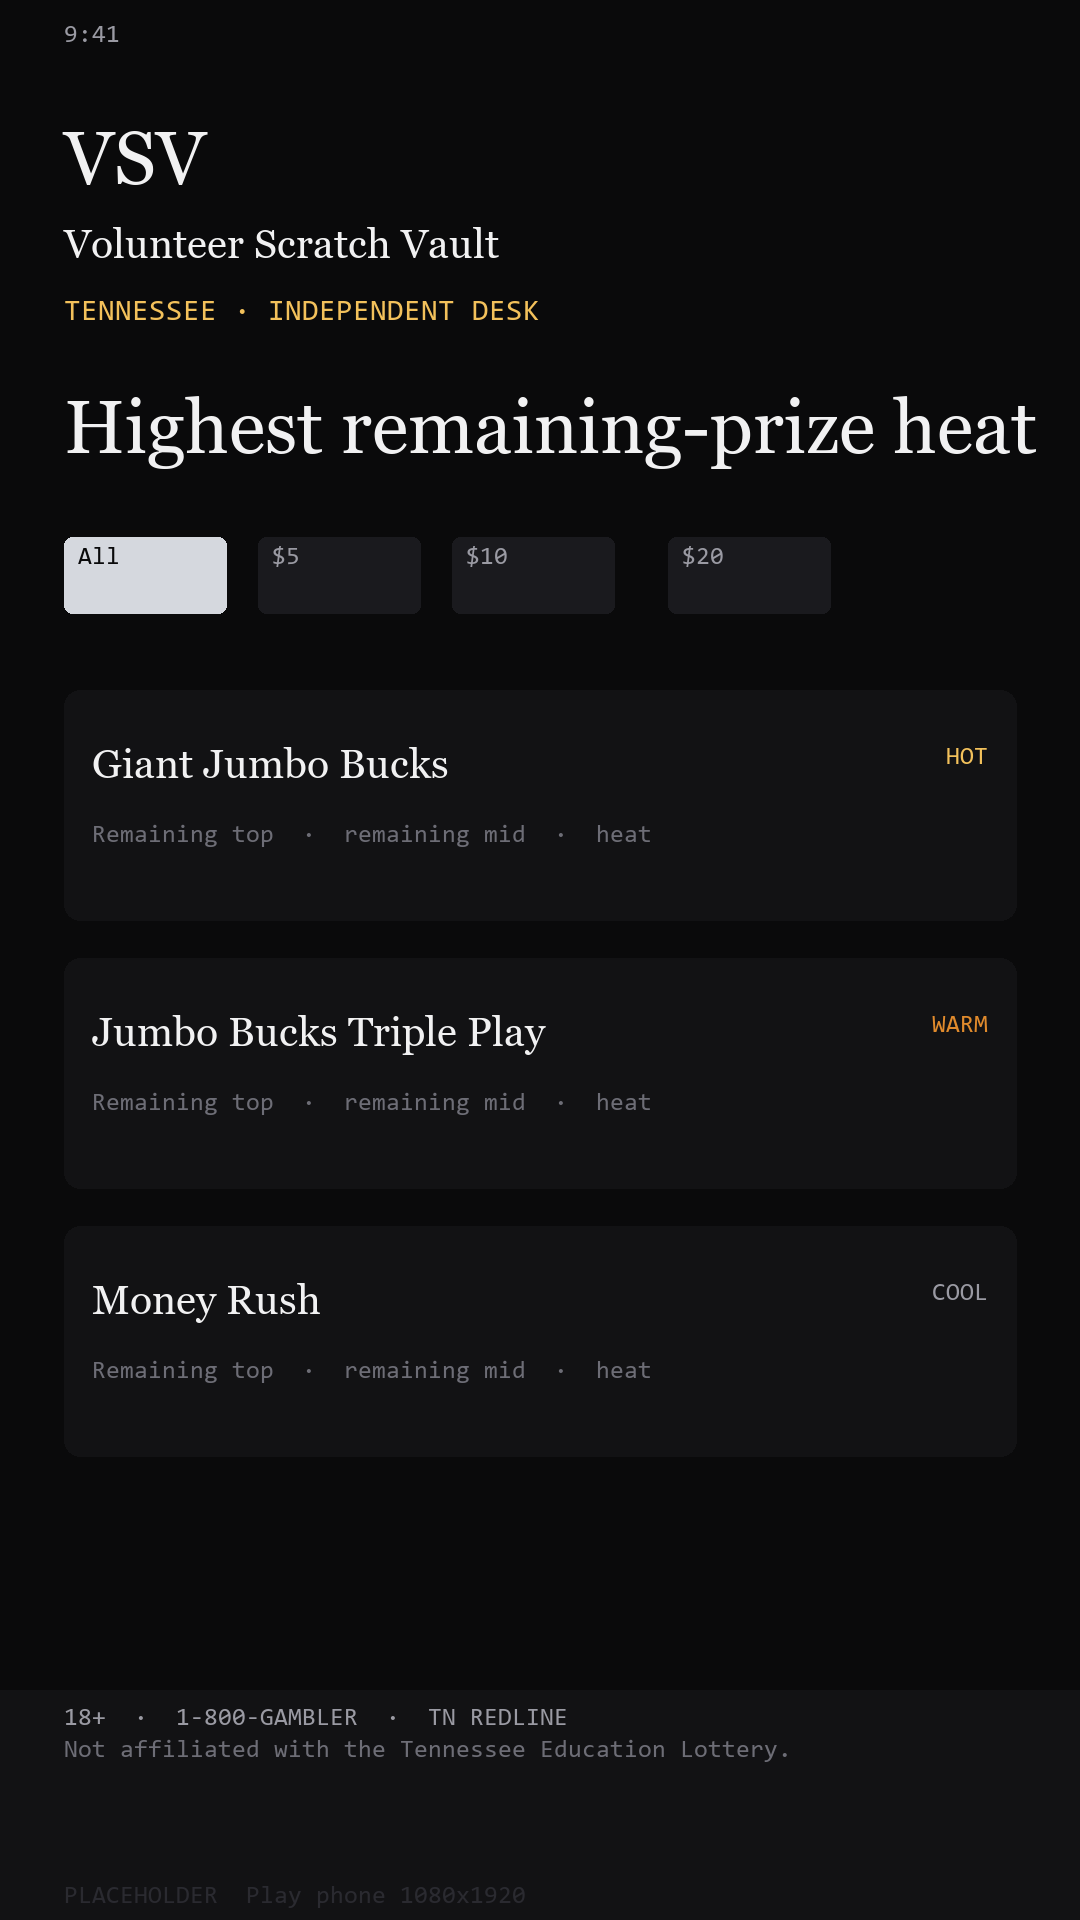
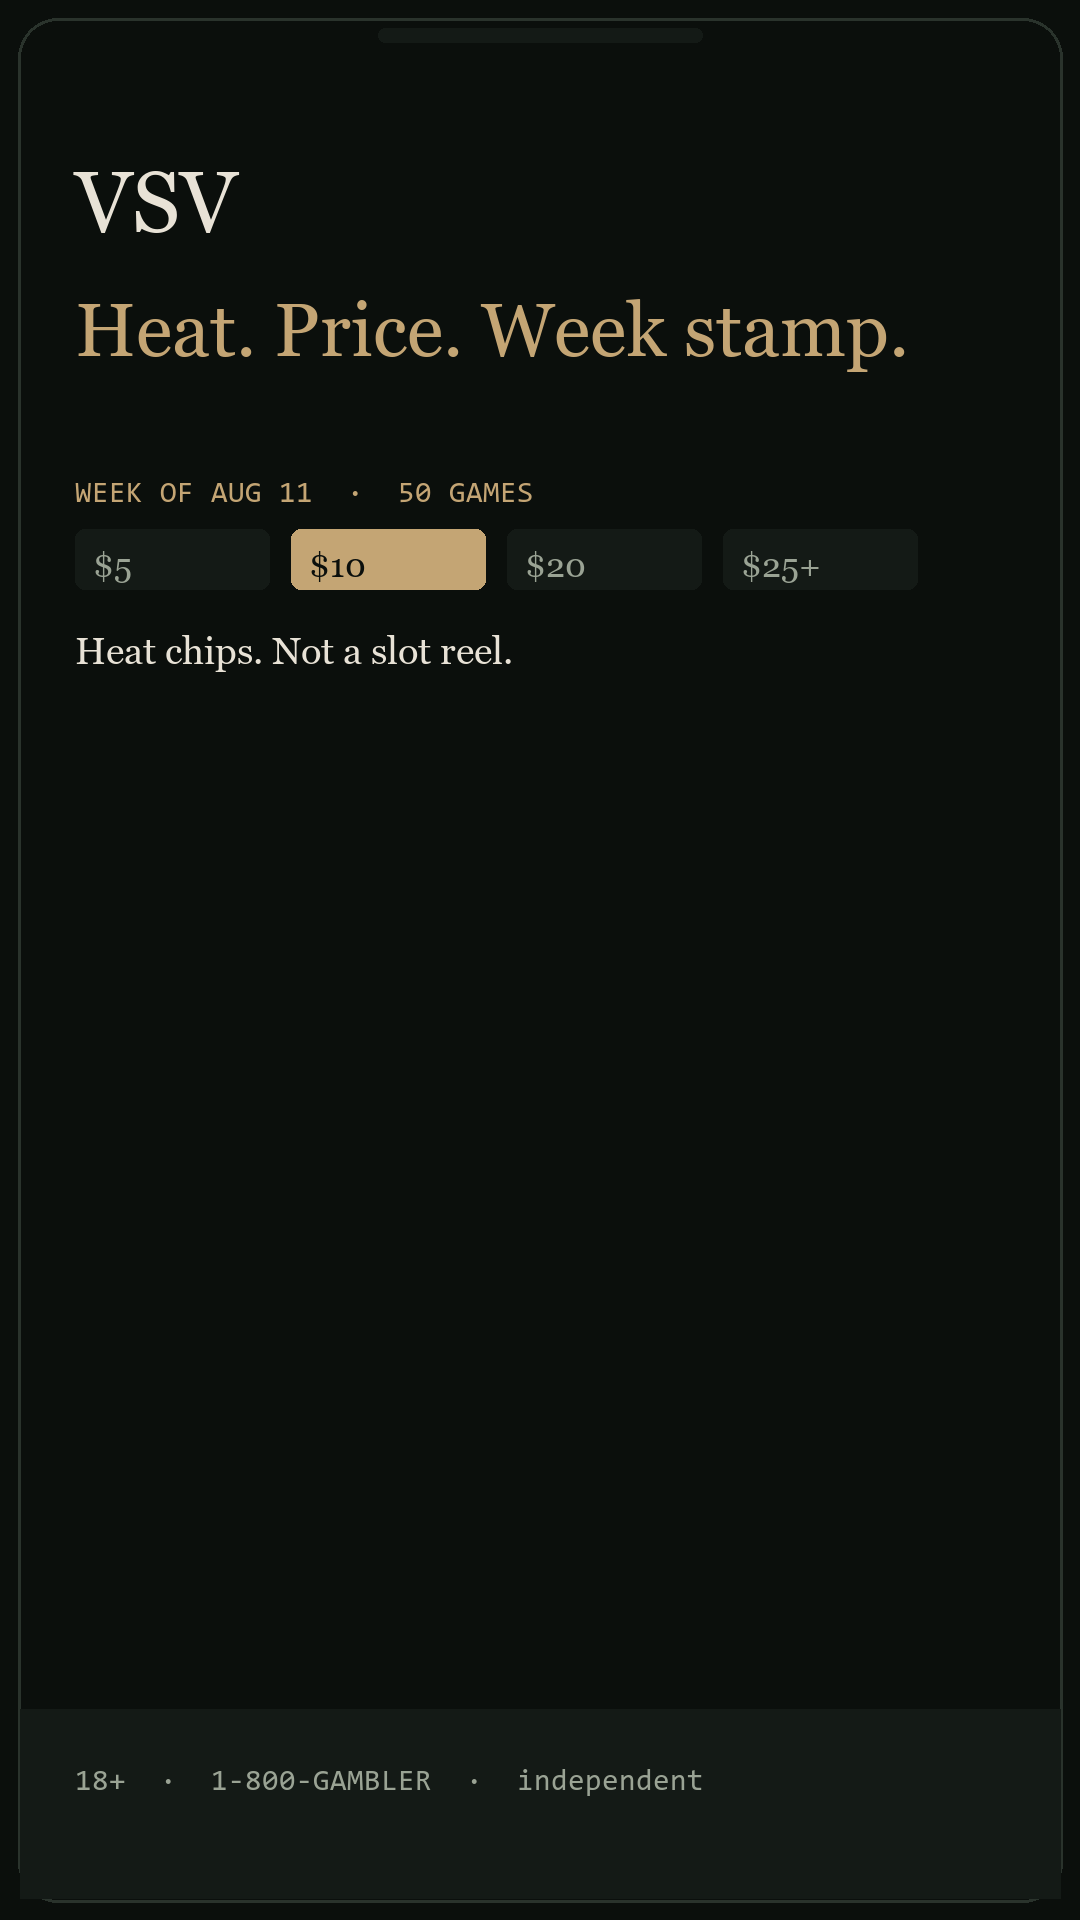
docs: store listing, screenshot frames, and app review notes

diff --git a/scripts/generate-listing-shots.py b/scripts/generate-listing-shots.py
@@ -1,0 +1,126 @@
+#!/usr/bin/env python3
+"""Store screenshot frames: hook, skip, desk, trip, alert, trust."""
+
+from pathlib import Path
+
+from PIL import Image, ImageDraw, ImageFont
+
+ROOT = Path(__file__).resolve().parents[1]
+BG = (11, 15, 12)
+RAISED = (20, 26, 22)
+LINE = (42, 51, 44)
+GOLD = (196, 165, 116)
+SAGE = (124, 154, 114)
+DANGER = (196, 92, 74)
+PAPER = (232, 226, 214)
+MUTED = (154, 163, 148)
+
+
+def font(size: int, mono: bool = False):
+    paths = (
+        [r"C:\Windows\Fonts\consola.ttf"]
+        if mono
+        else [r"C:\Windows\Fonts\georgia.ttf", r"C:\Windows\Fonts\times.ttf"]
+    )
+    for p in paths:
+        if Path(p).exists():
+            return ImageFont.truetype(p, size)
+    return ImageFont.load_default()
+
+
+def frame(size, caption, body_fn):
+    w, h = size
+    img = Image.new("RGB", size, BG)
+    draw = ImageDraw.Draw(img)
+    pad = int(w * 0.07)
+    # device chrome
+    draw.rounded_rectangle((18, 18, w - 18, h - 18), radius=40, outline=LINE, width=3)
+    draw.rounded_rectangle((int(w * 0.35), 28, int(w * 0.65), 42), radius=8, fill=RAISED)
+    y = int(h * 0.08)
+    draw.text((pad, y), "VSV", font=font(int(w * 0.08)), fill=PAPER)
+    y += int(h * 0.07)
+    draw.text((pad, y), caption, font=font(int(w * 0.07)), fill=GOLD)
+    y += int(h * 0.10)
+    body_fn(draw, pad, y, w, h)
+    draw.rectangle((20, h - int(h * 0.11), w - 20, h - 22), fill=RAISED)
+    draw.text(
+        (pad, h - int(h * 0.08)),
+        "18+  ·  1-800-GAMBLER  ·  independent",
+        font=font(int(w * 0.028), mono=True),
+        fill=MUTED,
+    )
+    return img
+
+
+def hook(draw, pad, y, w, h):
+    draw.ellipse((pad, y, pad + int(w * 0.38), y + int(w * 0.38)), outline=GOLD, width=3)
+    draw.text((pad + int(w * 0.44), y + 20), "$10 still posted", font=font(int(w * 0.045)), fill=PAPER)
+    draw.text((pad + int(w * 0.44), y + 80), "Giant Jumbo Bucks", font=font(int(w * 0.038)), fill=SAGE)
+    draw.text((pad + int(w * 0.44), y + 130), "613 mid-tier · heat 71", font=font(int(w * 0.03), True), fill=MUTED)
+
+
+def skip(draw, pad, y, w, h):
+    for i, name in enumerate(("Jumbo Bucks Triple Play", "Money Rush", "Cashword")):
+        top = y + i * int(h * 0.09)
+        draw.rounded_rectangle((pad, top, w - pad, top + int(h * 0.075)), radius=12, outline=LINE)
+        draw.text((pad + 20, top + 18), name, font=font(int(w * 0.036)), fill=PAPER)
+        draw.text((w - pad - 90, top + 22), "SKIP", font=font(int(w * 0.028), True), fill=DANGER)
+
+
+def desk(draw, pad, y, w, h):
+    draw.text((pad, y), "WEEK OF AUG 11  ·  50 GAMES", font=font(int(w * 0.028), True), fill=GOLD)
+    x = pad
+    for chip, on in (("$5", False), ("$10", True), ("$20", False), ("$25+", False)):
+        fill = GOLD if on else RAISED
+        ink = BG if on else MUTED
+        draw.rounded_rectangle((x, y + 50, x + int(w * 0.18), y + 110), radius=10, fill=fill)
+        draw.text((x + 18, y + 66), chip, font=font(int(w * 0.032)), fill=ink)
+        x += int(w * 0.2)
+    draw.text((pad, y + 150), "Heat chips. Not a slot reel.", font=font(int(w * 0.036)), fill=PAPER)
+
+
+def trip(draw, pad, y, w, h):
+    draw.text((pad, y), "If you’re buying $10s,", font=font(int(w * 0.04)), fill=PAPER)
+    draw.text((pad, y + 50), "review these 3. Then stop.", font=font(int(w * 0.04)), fill=PAPER)
+    for i, name in enumerate(("1  Giant Jumbo", "2  Crossword", "3  Multiplier")):
+        draw.text((pad, y + 130 + i * 48), name, font=font(int(w * 0.036)), fill=SAGE)
+
+
+def alert(draw, pad, y, w, h):
+    draw.ellipse((pad, y, pad + int(w * 0.36), y + int(w * 0.36)), outline=GOLD, width=4)
+    draw.text((pad + int(w * 0.08), y + int(w * 0.16)), "CONTACT", font=font(int(w * 0.03), True), fill=GOLD)
+    draw.text((pad + int(w * 0.42), y + 40), "New desk drop", font=font(int(w * 0.042)), fill=PAPER)
+    draw.text((pad + int(w * 0.42), y + 100), "Review rankings", font=font(int(w * 0.032)), fill=MUTED)
+
+
+def trust(draw, pad, y, w, h):
+    draw.text((pad, y), "Independent desk.", font=font(int(w * 0.045)), fill=PAPER)
+    draw.text((pad, y + 60), "Not the Lottery.", font=font(int(w * 0.045)), fill=PAPER)
+    draw.text((pad, y + 140), "1 month free, then $4.99/mo", font=font(int(w * 0.034)), fill=GOLD)
+    draw.text((pad, y + 200), "or $49.99/yr. Cancel anytime.", font=font(int(w * 0.034)), fill=GOLD)
+    draw.text((pad, y + 280), "Then put the phone away.", font=font(int(w * 0.04)), fill=SAGE)
+
+
+def save(img, path):
+    path.parent.mkdir(parents=True, exist_ok=True)
+    img.save(path, "PNG", optimize=True)
+    print("wrote", path.relative_to(ROOT))
+
+
+def main():
+    shots = [
+        ("hook", "See what’s still posted.", hook),
+        ("skip", "Skip the drained ones.", skip),
+        ("desk", "Heat. Price. Week stamp.", desk),
+        ("trip", "Review these 3. Then stop.", trip),
+        ("alert", "New counts on the desk.", alert),
+        ("trust", "Independent. 18+.", trust),
+    ]
+    for slug, cap, fn in shots:
+        save(frame((1290, 2796), cap, fn), ROOT / "store" / "ios" / "screenshots" / f"6.7-{slug}.png")
+        save(frame((1179, 2556), cap, fn), ROOT / "store" / "ios" / "screenshots" / f"6.1-{slug}.png")
+        save(frame((1080, 1920), cap, fn), ROOT / "store" / "android" / "screenshots" / f"phone-{slug}.png")
+
+
+if __name__ == "__main__":
+    main()

diff --git a/store/listing.md b/store/listing.md
@@ -1,118 +1,94 @@
 # Store listing copy — Volunteer Scratch Vault
 
-Paste-ready text for App Store Connect and Google Play. Calm desk voice.
-Never “beat the lottery,” never “best chance to win.”
+Paste-ready for App Store Connect and Google Play.
 
 | Field | Value |
 |---|---|
-| App name | Volunteer Scratch Vault |
-| Subtitle (requested) | TN scratch-off remaining prizes |
-| Apple subtitle (30-char max) | TN remaining-prize desk |
-| Primary category | **Reference** (preferred) or **Magazines & Newspapers** |
-| Do not use | Games, Casino, Lottery (as if we operate one) |
+| Category | **Reference** (or Magazines & Newspapers) |
+| Do not use | Games, Casino, Lottery operator |
 | Age | 18+ |
-| Privacy policy | https://volunteer-scratch-vault.vercel.app/privacy |
-
-The requested subtitle is 31 characters. Apple’s subtitle field allows 30.
-Use **TN remaining-prize desk** (23) on iOS. Google has no subtitle field;
-put the requested line in the short description instead.
+| Privacy | https://volunteer-scratch-vault.vercel.app/privacy |
 
 ---
 
-## Promotional text (Apple — 170 characters)
+## Apple
 
-Independent Tennessee desk for published scratch-off remaining prizes. Highest remaining-prize heat. 18+. Not a ticket seller. 1-800-GAMBLER.
+**Name (30):** Volunteer Scratch Vault  
+_23 / 30_
 
-_141 / 170 characters._
+**Subtitle (30):** TN remaining-prize desk  
+_23 / 30_
+
+**Keywords (100, no spaces after commas):**
+
+```
+tennessee,scratch,off,remaining,prizes,instant,games,heat,desk,tn
+```
+
+_65 / 100_
+
+**Promotional text (170):**
+
+```
+Review which Tennessee scratch-offs still have prizes posted. Mid-tier heat. Bust list. Radar when the desk updates. 18+.
+```
+
+_121 / 170_
 
 ---
 
-## Short description
+## Google Play
 
-### Google Play (80 characters)
+**Title (30):** Volunteer Scratch Vault  
+_23 / 30_
 
-TN scratch-off remaining prizes. Independent desk. 18+. 1-800-GAMBLER.
+**Short description (80):**
 
-_70 characters._
+```
+TN scratch-off remaining prizes. Heat, mid-tier, skip list.
+```
 
-### Apple (use under promotional text / first line of description)
-
-See which Tennessee scratch-offs still have prizes posted. Independent information desk. 18+.
+_59 / 80_
 
 ---
 
-## Long description (Apple + Google)
+## Description (Apple + Google)
 
-Volunteer Scratch Vault is an independent remaining-prize desk for Tennessee scratch-off games. It reads publicly posted prize counts and ranks $5, $10, $20, and $25+ instant games by remaining-prize heat: retail jackpots still on the board after Tennessee’s Play It Again holdback, mid-tier prizes still posted, and games that look drained.
+First three lines show before “more.” They do all the work:
 
-This is not a lottery. We do not sell tickets, take wagers, or pay prizes. We are not affiliated with, endorsed by, or connected to the Tennessee Education Lottery Corporation. Ticket faces in the app are independent reconstructions for store identification, not official Lottery artwork.
+See which TN instant games still have mid-tier cash posted.  
+Skip drained games. Rank by heat, not hype.  
+Independent desk. Not the Lottery. Remaining counts do not improve odds.
 
-Printed overall odds never change. Remaining counts change as tickets sell, and they do not improve your odds of winning any prize. The desk does not show live store inventory. Full Access ($4.99/month or $49.99/year, with a free trial) unlocks the three-tier table, mid-tier leaders, the skip list, and radar alerts. Radar alerts tell you when new Tennessee remaining-prize information is on the desk, so you can review rankings before you buy a ticket. Informational only. Remaining counts do not improve your odds of winning. Cancel anytime through your App Store or Google Play subscription settings.
+Volunteer Scratch Vault is an independent remaining-prize desk for Tennessee scratch-off games. It ranks publicly posted counts: what is still posted, what is drained, and what to skip. It does not sell tickets, take wagers, or pay prizes. It is not affiliated with, endorsed by, or connected to the Tennessee Education Lottery Corporation.
 
-You must be 18 or older. Play only with money you can afford to lose. If gambling is no longer fun, call or text 1-800-GAMBLER (1-800-522-4700) or the Tennessee REDLINE at 1-800-889-9789.
+Full Access is $4.99/month or $49.99/year with a 1-month free trial. Cancel anytime in App Store or Google Play settings. Radar alerts tell you when new Tennessee remaining-prize information is on the desk, so you can review rankings before you buy a ticket. Informational only. Remaining counts do not improve your odds of winning.
 
-Webb Spinner Visions. Independent. Tennessee.
+You must be 18 or older. If gambling is no longer fun, call or text 1-800-GAMBLER (1-800-522-4700) or the Tennessee REDLINE at 1-800-889-9789.
+
+Webb Spinner Visions · https://webbspinnervisions.net
 
 ---
 
 ## What’s New (1.0)
 
-First release of the independent Tennessee remaining-prize desk. Heat rankings for published scratch-off counts, an 18+ age gate, and Full Access through a free trial on the App Store or Google Play. Not affiliated with the Tennessee Education Lottery. If gambling is a problem, call 1-800-GAMBLER.
+First release. Remaining-prize heat, skip list, and radar when the desk updates. Independent of the Tennessee Education Lottery. 18+. 1-800-GAMBLER.
 
 ---
 
-## Keywords (Apple — 100 characters, no spaces after commas)
+## Screenshot captions (large type on frames)
 
-```
-tennessee,scratch-off,remaining prizes,instant games,prize desk,volunteer,heat
-```
+1. HOOK — See what’s still posted.  
+2. SKIP — Skip the drained ones.  
+3. DESK — Heat. Price. Week stamp.  
+4. TRIP — Review these 3. Then stop.  
+5. ALERT — New counts on the desk.  
+6. TRUST — Independent. 18+. Then put the phone away.
 
-_78 characters. Do not add casino, jackpot, winner, lottery operator, or “beat.”_
-
-Google Play has no keyword field. The long description and short description carry discovery terms.
-
----
-
-## Privacy nutrition labels
-
-Declare **only** email and purchases. Nothing else.
-
-Privacy policy: https://volunteer-scratch-vault.vercel.app/privacy
-
-### Apple App Privacy
-
-| Data type | Linked to identity? | Used for tracking? | Purpose |
-|---|---|---|---|
-| Contact Info → Email Address | Yes | No | App Functionality (sign-in) |
-| Purchases → Purchase History | Yes | No | App Functionality (subscription / trial status) |
-
-Do **not** check: Location, Contacts, Photos, Camera, Microphone, Precise Location, Product Interaction beyond purchases, Advertising Data, Other Data, Tracking.
-
-Third-party advertising: No  
-Tracking: No  
-Data used to track you: None
-
-### Google Play Data safety
-
-| Data | Collected | Shared | Required | Purpose |
-|---|---|---|---|---|
-| Personal info → Email address | Yes | No | Optional (sign-in) | App functionality, Account management |
-| Financial info → Purchase history | Yes | No | Optional (Full Access) | App functionality |
-
-Data encrypted in transit: Yes  
-Users can request deletion: Yes (email Webb Spinner Visions; see /privacy)  
-Independent security review: No
-
-Do **not** declare: Location, Photos, Contacts, Device IDs for ads, Approximate or precise location, or any data sold.
+Files: `store/ios/screenshots/` and `store/android/screenshots/`.
 
 ---
 
-## App Review note (3 paragraphs)
+## Privacy nutrition (email + purchases only)
 
-Volunteer Scratch Vault is an informational remaining-prize tracker. It publishes heat rankings of Tennessee scratch-off games from publicly posted prize counts. It does not sell lottery tickets, accept wagers, process payouts, or operate a lottery. Remaining counts do not improve the odds of winning any prize.
-
-The app is an independent product of Webb Spinner Visions. It is not affiliated with, endorsed by, sponsored by, or connected to the Tennessee Education Lottery Corporation. Game titles and prize amounts appear only to identify publicly offered games. Ticket faces are independent reconstructions, not official Lottery art.
-
-Users must confirm they are 18 or older on first launch. Full Access is an optional auto-renewing subscription (monthly $4.99, annual $49.99, free trial) sold through the App Store or Google Play. There is no ticket checkout and no third-party payment link in the iOS binary. Restore Purchases and Manage Subscription are on the Account screen. If gambling is a problem, the app points to 1-800-GAMBLER and the Tennessee REDLINE.
-
-Demo account: [leave a placeholder for me].
+See earlier App Privacy / Data safety table in this folder’s prior notes. Do not add location, contacts, tracking, or ads.

diff --git a/store/APP_REVIEW_NOTES.md b/store/APP_REVIEW_NOTES.md
@@ -1,40 +1,40 @@
 # App Review Notes — Volunteer Scratch Vault
 
 Informational remaining-prize tracker. Does not sell lottery tickets.
-Does not improve odds. 18+. Independent of Tennessee Education Lottery.
+Does not improve odds. 18+ gate. Independent of TELC.
 
 Demo account: [leave a placeholder for me].
 
-IAP: monthly + annual with free trial.
+IAP or web trial: $4.99 / month or $49.99 / year, 1-month free trial.
 
 ## What this app is
 
-Volunteer Scratch Vault is an independent remaining-prize **information**
-tool for Tennessee scratch-off games. It ranks published remaining prizes
-by heat (grand / mid-tier / bust). It is not a lottery, not a ticket
-seller, and not affiliated with, endorsed by, or connected to the
-Tennessee Education Lottery Corporation.
+Volunteer Scratch Vault is an independent remaining-prize information
+tool for Tennessee scratch-off games. It ranks publicly posted remaining
+prizes by heat (grand / mid-tier / bust). It is not a lottery, not a
+ticket seller, and not affiliated with, endorsed by, or connected to
+the Tennessee Education Lottery Corporation.
 
-Remaining counts do **not** improve the odds of winning any prize. Copy
-says “highest remaining-prize heat,” never “best chance to win.”
+Remaining counts do not improve the odds of winning any prize. Copy
+says “highest remaining-prize heat” and “still posted,” never “best
+chance to win.”
 
-Users must be 18 or older. The native app shows an age gate on first
-launch. Problem-gambling help is in the footer and disclaimer:
-1-800-GAMBLER and Tennessee REDLINE 1-800-889-9789.
+Users must confirm they are 18 or older on first launch. Help is in
+the footer: 1-800-GAMBLER and Tennessee REDLINE 1-800-889-9789.
 
 ## How to unlock Full Access
 
-1. Confirm you are 18+ on first launch.
-2. Open **Pricing**.
+1. Confirm 18+ on first launch.
+2. Open Pricing.
 3. Start the monthly ($4.99) or annual ($49.99) free trial.
-   Billing is App Store / Google Play (RevenueCat). There is no Stripe
-   checkout in the iOS or Android binary.
-4. **Account → Restore purchases** if the reviewer already subscribed
-   on this Apple ID / Play account.
-5. **Account → Manage subscription** opens the system subscription page.
+   Native billing is App Store / Google Play (RevenueCat). There is
+   no Stripe checkout in the iOS or Android binary.
+4. Account → Restore purchases if this Apple ID / Play account already
+   subscribed.
+5. Account → Manage subscription opens the system subscription page.
 
-Entitlement id: `vsv_full_access`  
-Product ids: `monthly`, `annual`
+Entitlement: `vsv_full_access`  
+Products: `monthly`, `annual`
 
 ## Privacy
 
